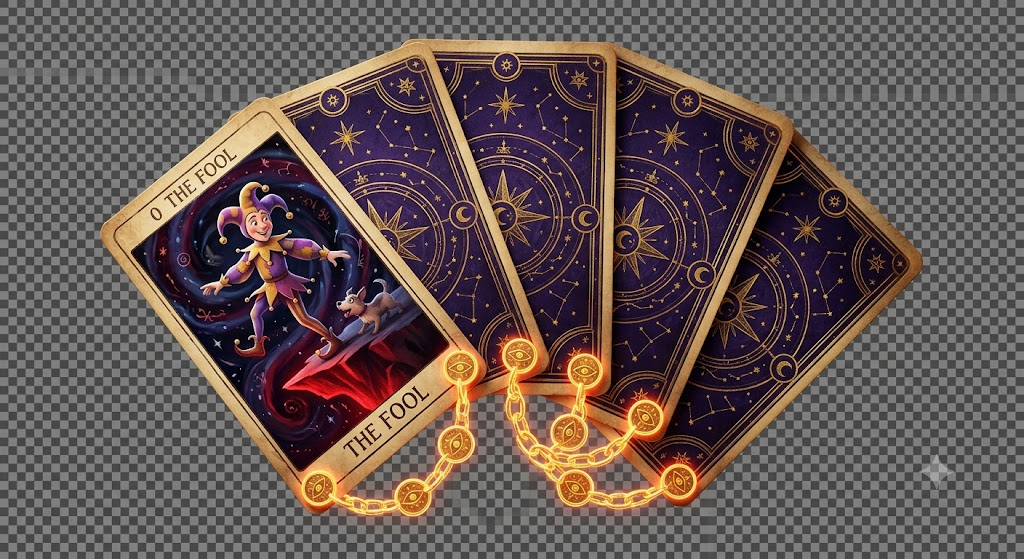
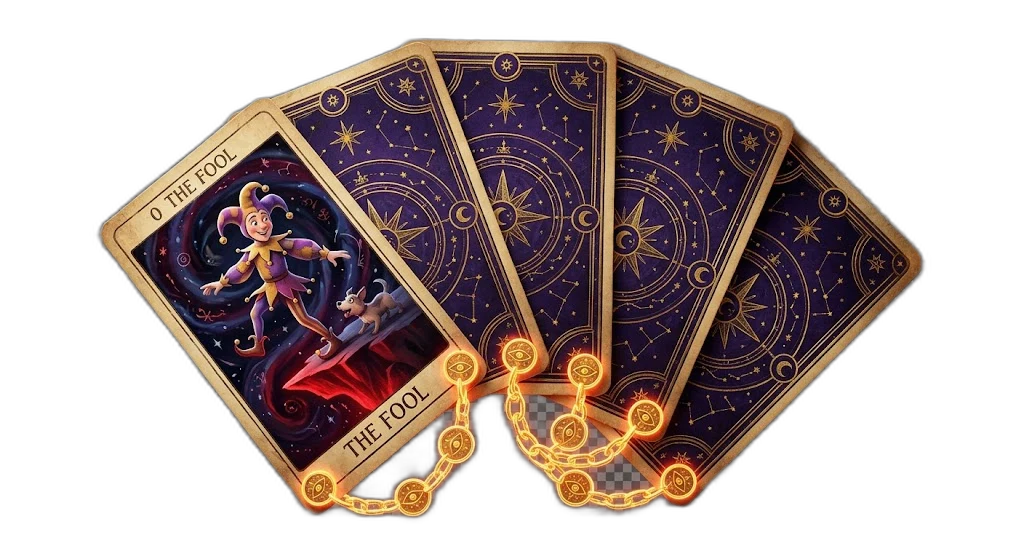
Scontorna carte-catena e casse: rimozione sfondo con rembg (#192)
- assets/cartomante/carte-catena.webp: rembg → RGBA trasparente (216K→126K)
- assets/cartomante/casse.webp: rembg → RGBA trasparente (173K→82K)
- Rimosso background CSS temporaneo da .catena-cards-img
- SW cache → v388

Claude-Session: https://claude.ai/code/session_01KQdFgyEFf2Ai8HPN3qjCmk

diff --git a/style.css b/style.css
@@ -7352,7 +7352,7 @@ img.fiche-inline {
 .pozzo-rarity-label { font-size: .72rem; font-weight: 700; letter-spacing: .08em; margin-bottom: 6px; }
 
 /* ── Catena del Fato ── */
-.catena-cards-img { width: 100%; max-height: 140px; object-fit: contain; margin: 6px 0 12px; display: block; background: #0c0918; border-radius: 10px; }
+.catena-cards-img { width: 100%; max-height: 140px; object-fit: contain; margin: 6px 0 12px; display: block; }
 .catena-chain {
   display: flex; flex-wrap: wrap; gap: 8px; justify-content: center; margin: 12px 0;
 }

diff --git a/sw.js b/sw.js
@@ -5,7 +5,7 @@
 
 
 
-const CACHE = "heropace-v387";
+const CACHE = "heropace-v388";
 const NOTIF_CACHE = 'heropace-notif-v1'; // stato notifiche (non cancellare mai)
 
 /* File locali per fallback offline */
